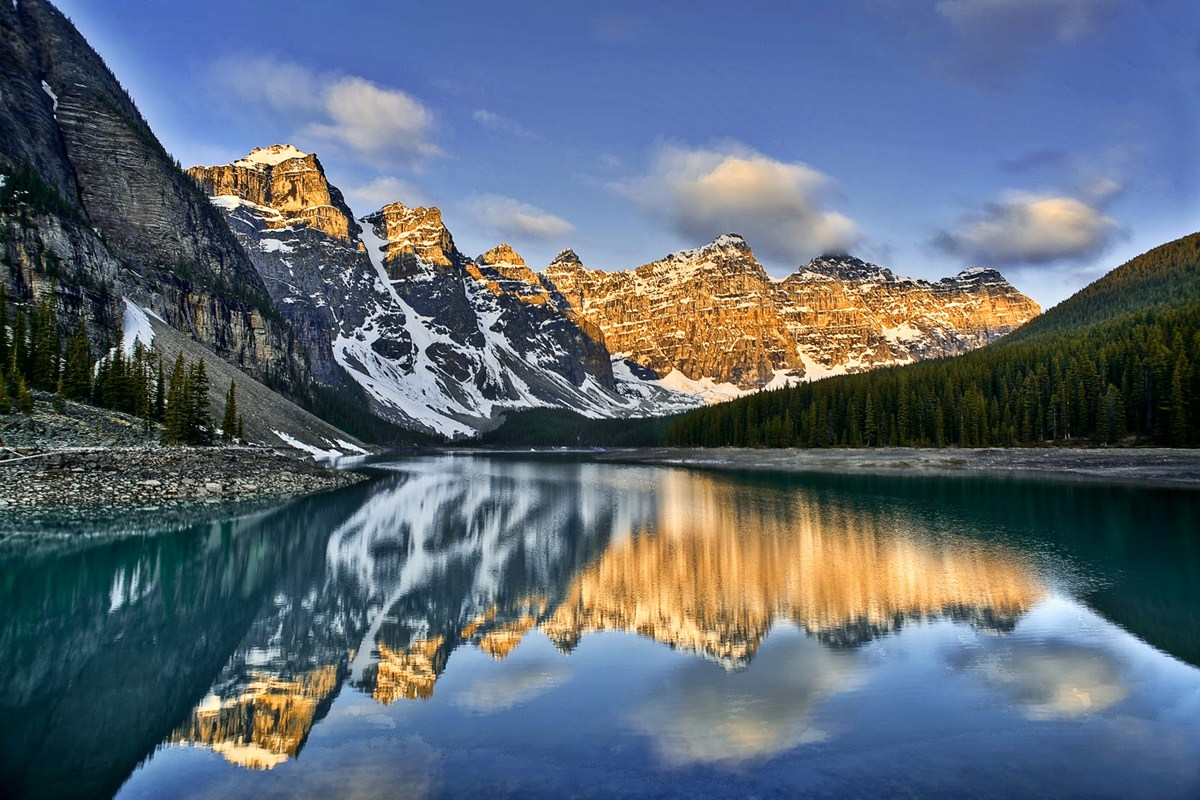
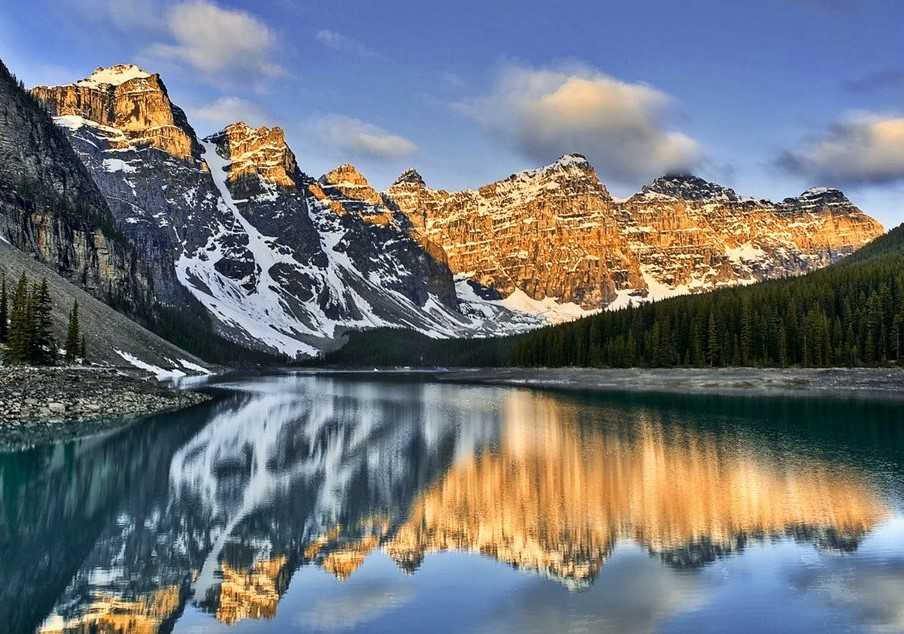
working on responsive design

diff --git a/css/style.css b/css/style.css
@@ -190,7 +190,7 @@ input:focus {
 
 .photo {
     width: 100%;
-    height: 20rem;
+    height: 18rem;
     display: block;
 }
 
@@ -519,4 +519,55 @@ input:focus {
     top: 6rem;
     left: 8rem;
     transition: all .1s;
+}
+
+@media only screen and (max-width: 1200px) {
+    .container {
+        margin: 0;
+    }
+}
+
+@media only screen and (max-width:1000px) {
+    header {
+        font-size: 1rem;
+        height: 5rem;
+    }
+    .icon-box {
+        font-size: .8rem;
+    }
+    .notification {
+        font-size: .7rem;
+        height: 1.3rem;
+        width: 1.3rem;
+    }
+    .user-img {
+        width: 3rem;
+        height: 3rem;
+    }
+    .search {
+        font-size: 1rem;
+    }
+    .content {
+        display: flex;
+        flex-direction: column;
+    }
+    .side-nav {
+        display: flex;
+        flex-direction: row;
+        justify-content: space-around;
+    }
+    .item:nth-child(1) {
+        margin: 0;
+        padding: 2rem 0;
+    }
+    .item {
+        flex: 1;
+        text-align: center;
+        align-self: center;
+        padding: 0;
+        font-size: 1.2rem;
+    }
+    .legal {
+        display: none;
+    }
 }

diff --git a/index.html b/index.html
@@ -47,13 +47,13 @@
             <main class="hotel-view">
                 <div class="gallery">
                     <figure class="gallery-item">
-                        <img class="photo" src="img/JadeMountain-SaintLucia4.jpg">
+                        <img class="photo" src="img/Mountains-Reflections-Moraine-Lake.jpg">
                     </figure>
                     <figure class="gallery-item">
                         <img class="photo" src="img/Rustic-Mountain-Home-Locati-Architects-01-1-Kindesign.jpg">
                     </figure>
                     <figure class="gallery-item">
-                        <img class="photo" src="img/Mountains-Reflections-Moraine-Lake.jpg">
+                        <img class="photo" src="img/JadeMountain-SaintLucia4.jpg">
                     </figure>
                 </div>
                 <div class="overview">
